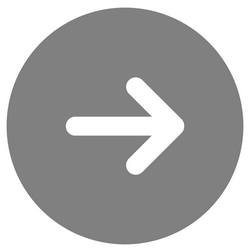
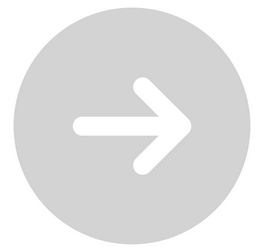
Fix Buttons

diff --git a/mobile/TestScreen.js b/mobile/TestScreen.js
@@ -78,6 +78,7 @@ export default function TestScreen() {
               <Text style={styles.taskButtonText}>Take a quiz</Text>
               <Text style={styles.taskButtonSubtext}>5 minutes</Text>
             </View>
+            <Image source={require('./assets/arrowright.png')} style={styles.arrowRightImage} />
           </TouchableOpacity>
 
           <TouchableOpacity style={styles.taskButton}>
@@ -86,6 +87,7 @@ export default function TestScreen() {
               <Text style={styles.taskButtonText}>Practice with flashcards</Text>
               <Text style={styles.taskButtonSubtext}>5 minutes</Text>
             </View>
+            <Image source={require('./assets/arrowright.png')} style={styles.arrowRightImage} />
           </TouchableOpacity>
         </View>
 
@@ -478,4 +480,10 @@ const styles = StyleSheet.create({
   taskButtonSubtext: {
     color: '#808080',
   },
+  arrowRightImage: {
+    width: 30, // Définissez la largeur souhaitée
+    height: 30, // Définissez la hauteur souhaitée
+    marginLeft: 'auto', // Pousse l'image vers la droite
+    resizeMode: 'contain' // Assurez que l'image s'adapte sans se déformer
+  },  
 });
